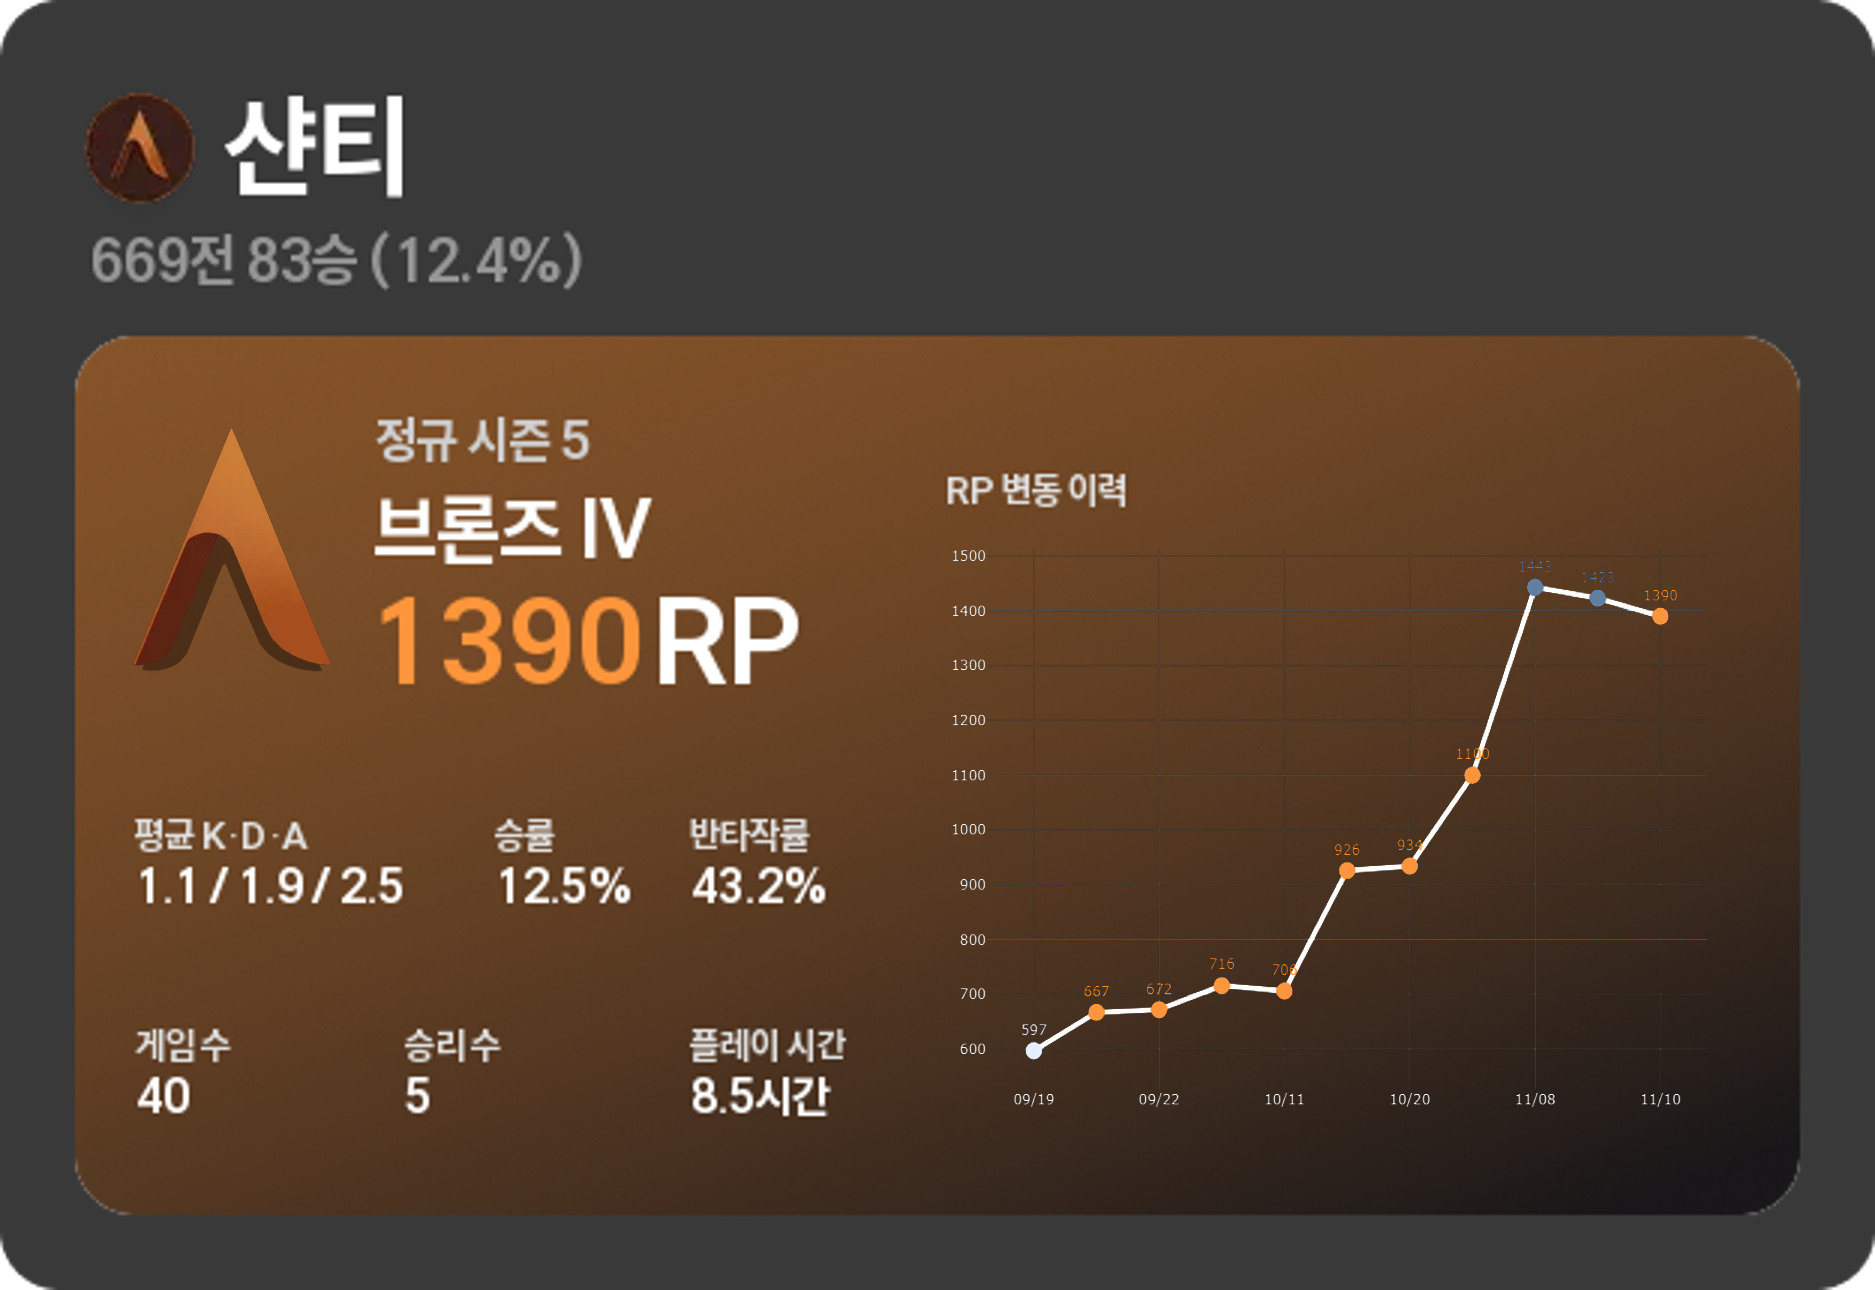
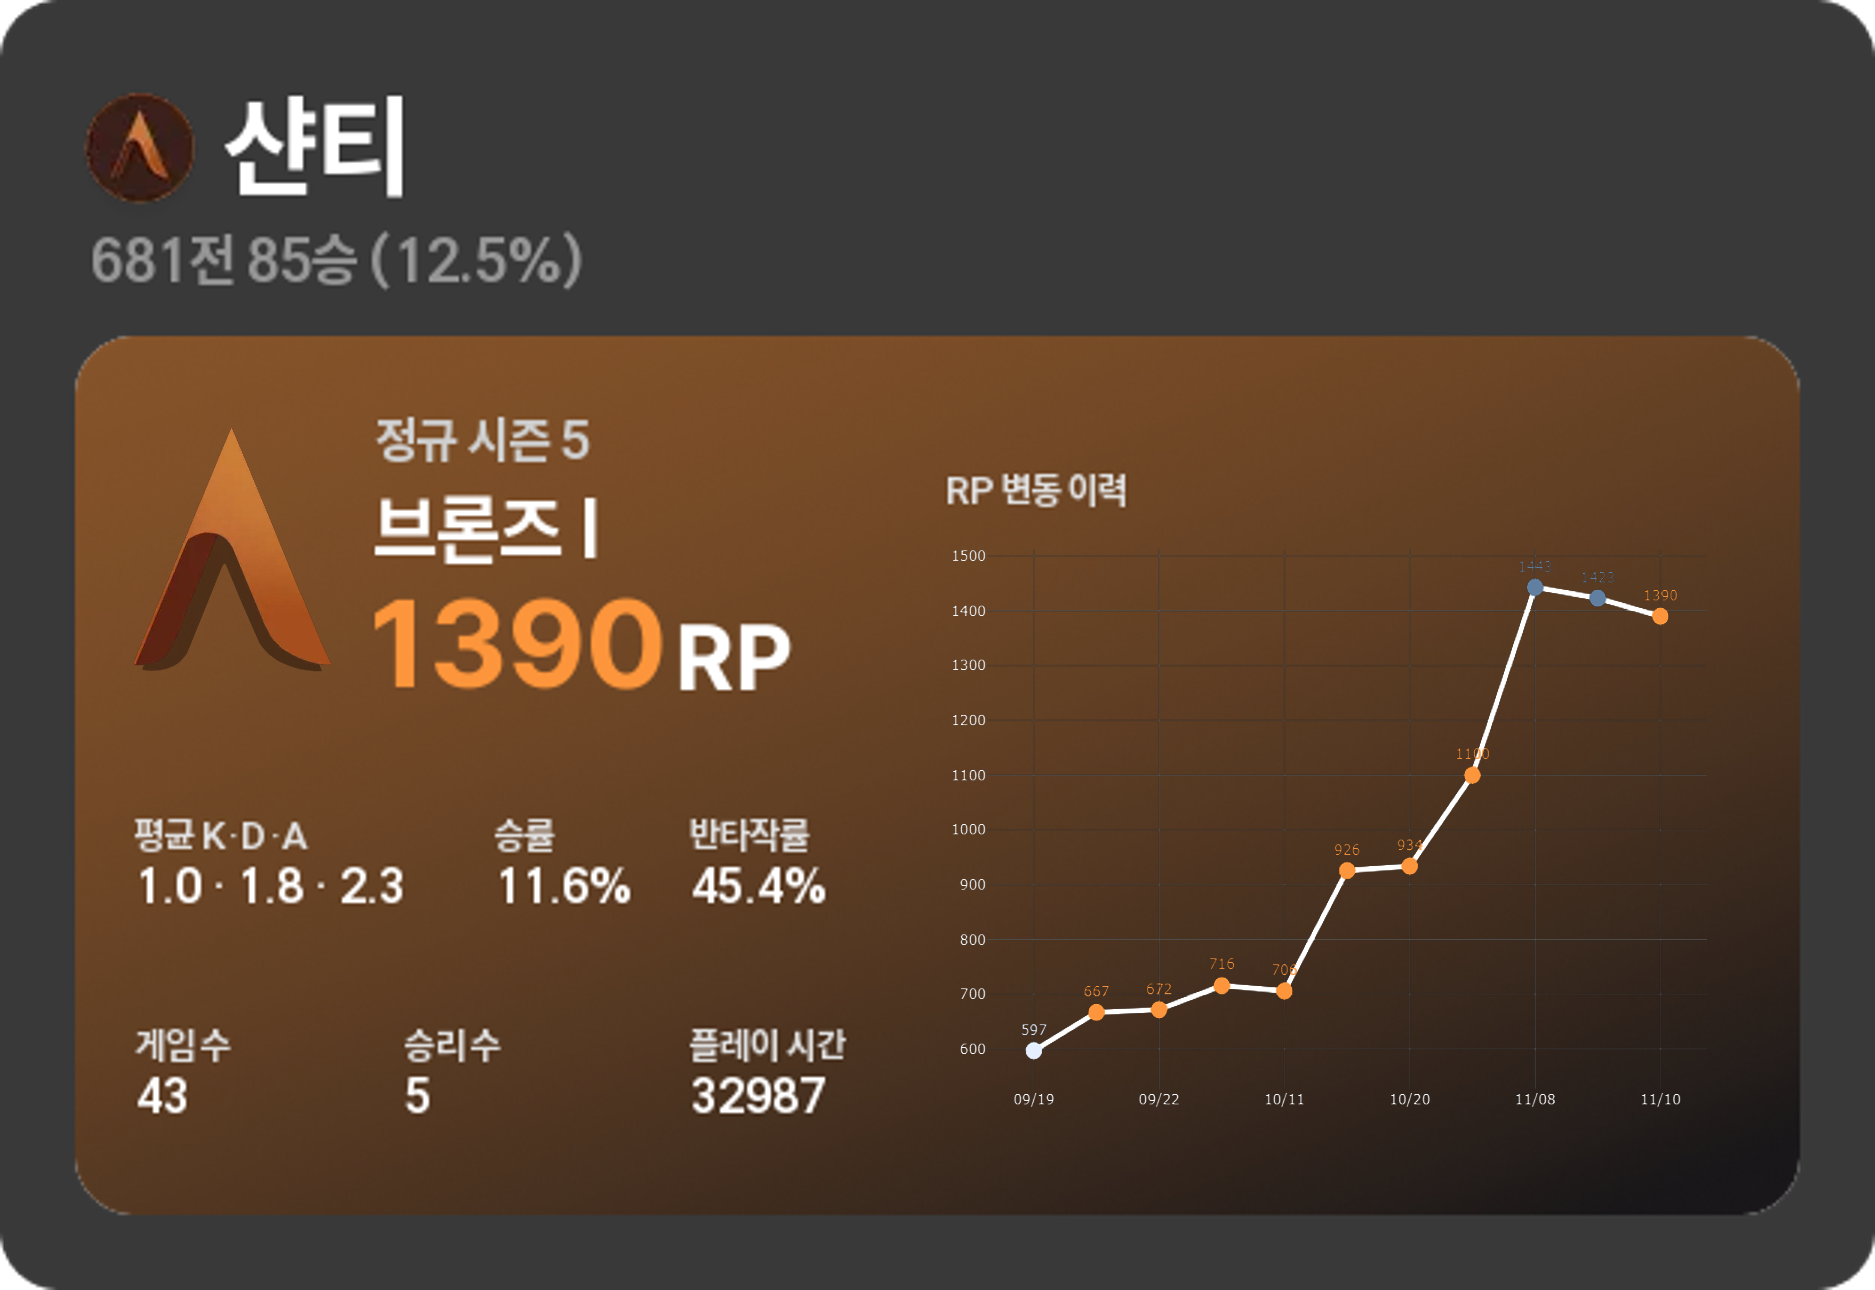
feat: generateStatImage

diff --git a/module/statImage.py b/module/statImage.py
@@ -1,13 +1,13 @@
 import os, sqlite3, logging
 from PIL import Image, ImageDraw, ImageFont
-# from module.variables import getTierName
-# from .database import *
+from module.variables import getTierName, getSeason
+from module.database import *
 import urllib.request
 import plotly.express as px
 from pandas import DataFrame
 
-from variables import getSeason, getTierName
-from database import *
+# from variables import getSeason, getTierName
+# from database import *
 
 logger = logging.getLogger("ihahbot.main")
 
@@ -374,13 +374,14 @@ def generateMMRHistoryImage(userId: int, x: dict, tier: str):
 	fig.write_image("Match/mmr-history/3015759.png")
 
 def generateStatImage(user: list, x: dict):
+	print(x)
 	image = Image.open("image/Background/Tier/_Background.png")
 	draw = ImageDraw.Draw(image)
 	
-	userId = user[0]; userName = user[1]; tier = getTierName(x['mmr'])
+	userId = user[0]; userName = user[1]; tier = getTierName(x['seasonQueueData']['mmr'])
 
 	draw.text((75, 25), f"{userName}", font=ImageFont.truetype('Freesentation-7Bold.ttf', size=40), fill="#FFFFFF")
-	draw.text((30, 75), f"669전 83승 (12.4%)", font=ImageFont.truetype('Freesentation-7Bold.ttf', size=20), fill="#959595")
+	draw.text((30, 75), f"{x['overall']['plays']}전 {x['overall']['wins']}승 ({round((x['overall']['wins']/x['overall']['plays'])*100, 1)}%)", font=ImageFont.truetype('Freesentation-7Bold.ttf', size=20), fill="#959595")
 
 	tierBackground = Image.open(f"image/Background/Tier/{tier[2].capitalize()}.png")
 	image.paste(tierBackground, (25, 112), tierBackground)
@@ -388,10 +389,10 @@ def generateStatImage(user: list, x: dict):
 	statusTitle  = ImageFont.truetype('Freesentation-7Bold.ttf', size=13)
 	statusObject = ImageFont.truetype('Freesentation-7Bold.ttf', size=16)
 
-	draw.text((125, 135), f"{getSeason(x['seasonId'])}", font=ImageFont.truetype('Freesentation-7Bold.ttf', size=18), fill=(206, 206, 206))
+	draw.text((125, 135), f"{getSeason(x['seasonQueueData']['seasonId'])}", font=ImageFont.truetype('Freesentation-7Bold.ttf', size=18), fill=(206, 206, 206))
 	draw.text((125, 160), f"{tier[0]}", font=ImageFont.truetype('Freesentation-7Bold.ttf', size=27), fill="#FFFFFF")
-	draw.text((123, 190), f"{x['mmr']}", font=ImageFont.truetype('Freesentation-7Bold.ttf', size=40), fill=rankTierColors[tier[2]])
-	draw.text((240+(-23*(5-len(f"{x['mmr']}"))), 190), "RP", font=ImageFont.truetype('Freesentation-7Bold.ttf', size=40), fill="#FFFFFF")
+	draw.text((123, 190), f"{x['seasonQueueData']['mmr']}", font=ImageFont.truetype('Inter-Bold.ttf', size=40), fill=rankTierColors[tier[2]])
+	draw.text((255+(-30*(5-len(f"{x['seasonQueueData']['mmr']}")))+(0 if len(f"{x['seasonQueueData']['mmr']}") >= 4 else 10), 200), "RP", font=ImageFont.truetype('Inter-Bold.ttf', size=30), fill="#FFFFFF")
 	
 	draw.text(( 45, 270), "평균 K·D·A", font=statusTitle, fill="#E0E0E0")
 	draw.text((165, 270), "승률", font=statusTitle, fill="#E0E0E0")
@@ -401,12 +402,12 @@ def generateStatImage(user: list, x: dict):
 	draw.text((230, 340), "플레이 시간", font=statusTitle, fill="#E0E0E0")
 	draw.text((315, 155), "RP 변동 이력", font=statusTitle, fill="#E0E0E0")
 
-	draw.text(( 45, 285), "1.1 / 1.9 / 2.5", font=statusObject, fill="#FFFFFF")
-	draw.text((165, 285), "12.5%", font=statusObject, fill="#FFFFFF")
-	draw.text((230, 285), "43.2%", font=statusObject, fill="#FFFFFF")
-	draw.text(( 45, 355), "40", font=statusObject, fill="#FFFFFF")
-	draw.text((135, 355), "5", font=statusObject, fill="#FFFFFF")
-	draw.text((230, 355), "8.5시간", font=statusObject, fill="#FFFFFF")
+	draw.text(( 45, 285), f"{round(x['season']['kda'][0]/x['seasonQueueData']['totalPlays'], 1)} · {round(x['season']['kda'][1]/x['seasonQueueData']['totalPlays'], 1)} · {round(x['season']['kda'][2]/x['seasonQueueData']['totalPlays'], 1)}", font=statusObject, fill="#FFFFFF")
+	draw.text((165, 285), f"{round((x['seasonQueueData']['totalWins']/x['seasonQueueData']['totalPlays'])*100, 1)}%", font=statusObject, fill="#FFFFFF")
+	draw.text((230, 285), f"{round(x['season']['halfRate']*100, 1)}%", font=statusObject, fill="#FFFFFF")
+	draw.text(( 45, 355), f"{x['seasonQueueData']['totalPlays']}", font=statusObject, fill="#FFFFFF")
+	draw.text((135, 355), f"{x['seasonQueueData']['totalWins']}", font=statusObject, fill="#FFFFFF")
+	draw.text((230, 355), f"{x['season']['playTime']}", font=statusObject, fill="#FFFFFF")
 
 	foreground = Image.new("RGBA", (image.width, image.height), (0, 0, 0, 0))
 	tierSmallBackground = Image.open(f"image/Tier/Small/{tier[2].capitalize()}.png").convert("RGBA")
@@ -426,8 +427,6 @@ def generateStatImage(user: list, x: dict):
 	image = Image.alpha_composite(image, foreground)
 
 	image.save(f"Match/Stat/{userId}.png")
-
-generateStatImage([3015759, "샨티"], {"seasonId": 27, "mmr": 1390})
 
 def getItemSlot(itemId: int):
 	conn = sqlite3.connect('ERData/Item.db')

diff --git a/Cogs/Stat.py b/Cogs/Stat.py
@@ -64,7 +64,7 @@ class Stat(commands.Cog):
 		user: str, hide: bool = False
 	):
 		nick = user.replace("⭐", "").replace("🛠", "").replace("📹", "")
-		userId = await getUserId(nick); editMsg = False
+		userId = await getUserId(nick)
 		await i.response.defer(ephemeral=hide)
 		if not userId:
 			userNames = await searchUser(nick); lists = []
@@ -82,15 +82,9 @@ class Stat(commands.Cog):
 			else:
 				nick = userNames['result'][0]['name']
 				userId = userNames['result'][0]['id']
-				editMsg = True
-		embed = disnake.Embed(
-			title=f"{nick}님의 전적",
-			description="원하는 기록을 선택하고 전적을 확인해보세요!"
-		)
-		embed.set_footer(text="Data from aya.gg")
+		generateStatImage([userId, nick], await getUserStatistics(userId, 27))
 		record = await getRecord(userId)
-		if editMsg: await i.edit_original_message(embed=embed, view=RecordListView(i.user.id, await getRecordOptions(record['result'], i), userId, record['page']))
-		else: await i.edit_original_message(embed=embed, view=RecordListView(i.user.id, await getRecordOptions(record['result'], i), userId, record['page']))
+		await i.edit_original_message(embed=None, file=disnake.File(fp=f"Match/Stat/{userId}.png", filename=f"Stat-{userId}.png"), view=RecordListView(i.user.id, await getRecordOptions(record['result'], i), userId, record['page']))
 
 class userSearchView(disnake.ui.View):
 	def __init__(self, options: list[disnake.SelectOption], userId: int):
@@ -109,8 +103,6 @@ class userSearch(disnake.ui.Select):
 		if self._userId == i.user.id:
 			nick = self.values[0]
 			userId = await getUserId(nick)
-			statistics = await getUserStatistics(userId)
-			generateStatImage(statistics)
 			embed = disnake.Embed(
 				title=f"{nick}님의 전적",
 				description="원하는 기록을 선택하고 전적을 확인해보세요!"

diff --git a/module/variables.py b/module/variables.py
@@ -15,21 +15,21 @@ def getTeamType(teamType: int):
 	elif teamType == 3: return '스쿼드'
 	elif teamType == 4: return '코발트'
 
-roma = ["", "I", "II", "III", "IV"]
+roma = ["I", "II", "III", "IV"]
 
 def getTierName(mmr: int, demigod: bool = False, eternity: bool = False):
 	if mmr < 600:
-		return [f"아이언 {roma[ceil(mmr/150)]}", f"{mmr%150}점", "iron"]
+		return [f"아이언 {roma[4-ceil(mmr/150)]}", f"{mmr%150}점", "iron"]
 	elif mmr < 1400:
-		return [f"브론즈 {roma[ceil((mmr-600)/200)]}", f"{(mmr-600)%200}점", "bronze"]
+		return [f"브론즈 {roma[4-ceil((mmr-600)/200)]}", f"{(mmr-600)%200}점", "bronze"]
 	elif mmr < 2400:
-		return [f"실버 {roma[ceil((mmr-1400)/250)]}", f"{(mmr-1400)%250}점", "silver"]
+		return [f"실버 {roma[4-ceil((mmr-1400)/250)]}", f"{(mmr-1400)%250}점", "silver"]
 	elif mmr < 3600:
-		return [f"골드 {roma[ceil((mmr-2400)/300)]}", f"{(mmr-2400)%300}점", "gold"]
+		return [f"골드 {roma[4-ceil((mmr-2400)/300)]}", f"{(mmr-2400)%300}점", "gold"]
 	elif mmr < 5000:
-		return [f"플래티넘 {roma[ceil((mmr-3600)/350)]}", f"{(mmr-3600)%350}점", "platinum"]
+		return [f"플래티넘 {roma[4-ceil((mmr-3600)/350)]}", f"{(mmr-3600)%350}점", "platinum"]
 	elif mmr < 6400:
-		return [f"다이아몬드 {roma[ceil((mmr-5000)/350)]}", f"{(mmr-5000)%350}점", "diamond"]
+		return [f"다이아몬드 {roma[4-ceil((mmr-5000)/350)]}", f"{(mmr-5000)%350}점", "diamond"]
 	elif mmr < 6800:
 		return [f"메테오라이트", f"{mmr-6400}점", "meteorite"]
 	else:

diff --git a/module/player.py b/module/player.py
@@ -22,12 +22,6 @@ async def searchUser(query: str=None):
 			r = await res.json()
 			return r
 
-async def getUserStatistics(userId: int):
-	async with aiohttp.ClientSession(headers=AYAGG_HEADER) as session:
-		async with session.get(AYAGG_API_URL + f"/player/{userId}/statistics") as res:
-			r = await res.json()
-			return r
-
 async def getUser(*, nick: str=None, userId: int=None):
 	if nick:
 		return [nick, await getUserId(nick)]
@@ -87,8 +81,17 @@ async def getUserLevel(userId: int):
 				return data
 	return n[0]
 
-async def getUserStatistics(userId: int):
+async def getUserStatistics(userId: int, season: int=None):
+	result = {}
 	async with aiohttp.ClientSession(headers=AYAGG_HEADER) as session:
 		async with session.get(AYAGG_API_URL + f"/player/{userId}/statistics") as res:
 			r = await res.json()
-			return r
+			result['overall'] = r['overall']
+		async with session.get(AYAGG_API_URL + f"/player/{userId}/statistics{f'?seasonId={season}' if season else ''}") as res:
+			r = await res.json()
+			result['season'] = r['overall']
+		async with session.get(AYAGG_API_URL + f"/queues/by-player/{userId}") as res:
+			r = await res.json()
+			for x in r['result']:
+				if x['seasonId'] == season: result['seasonQueueData'] = x
+		return result

diff --git a/Cogs/Ranking.py b/Cogs/Ranking.py
@@ -5,7 +5,7 @@ from Cogs.Stat import RecordListView
 from module.database import getAllCharacterName, getCharacterName, searchCharacter
 from module.embed import makeErrorEmbed
 from module.games import getRecordOptions
-from module.player import getRecord, getUser, getUserNickname
+from module.player import getRecord
 from module.ranking import getRanking_Artisan, getRanking_LP
 from module.variables import getTierName
 
